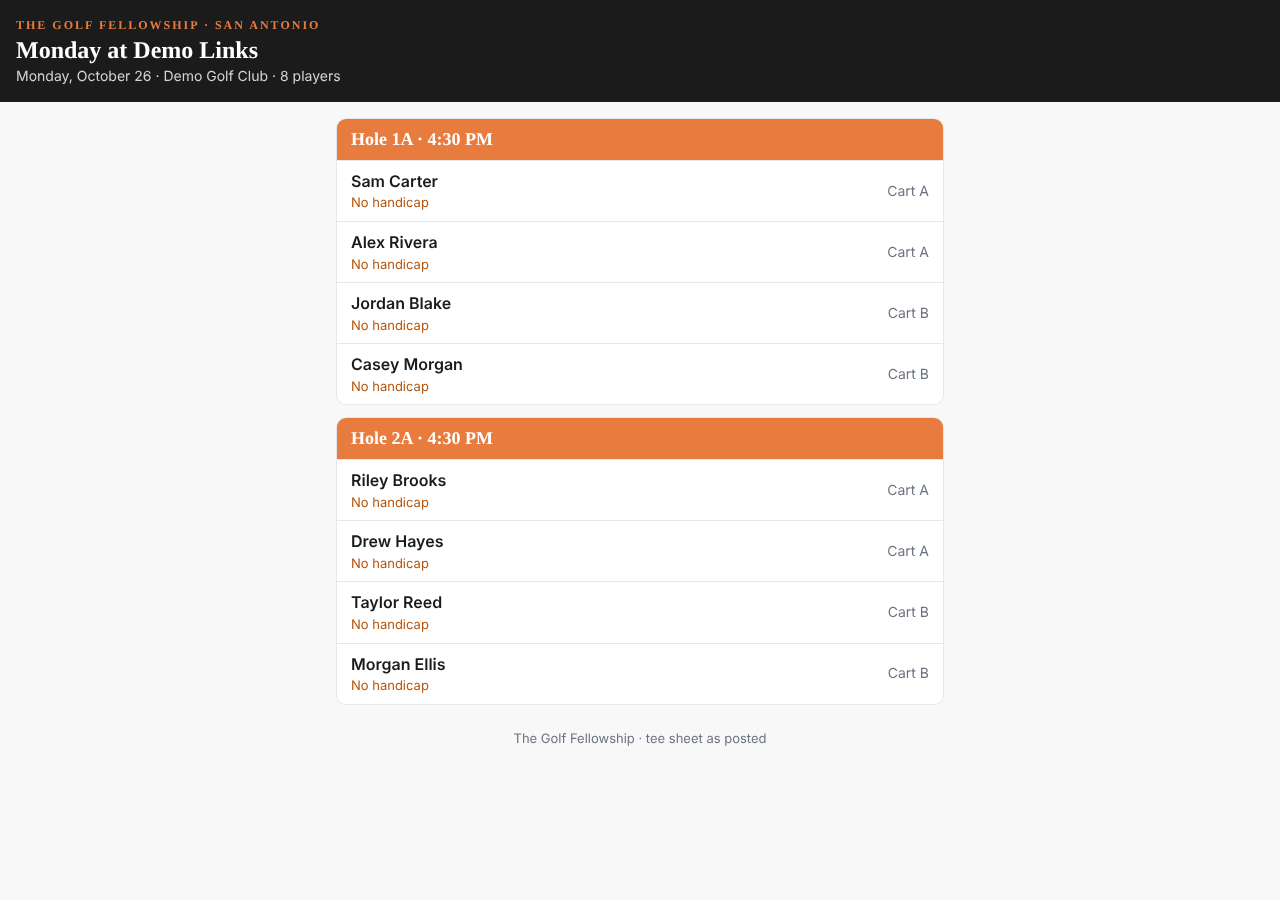
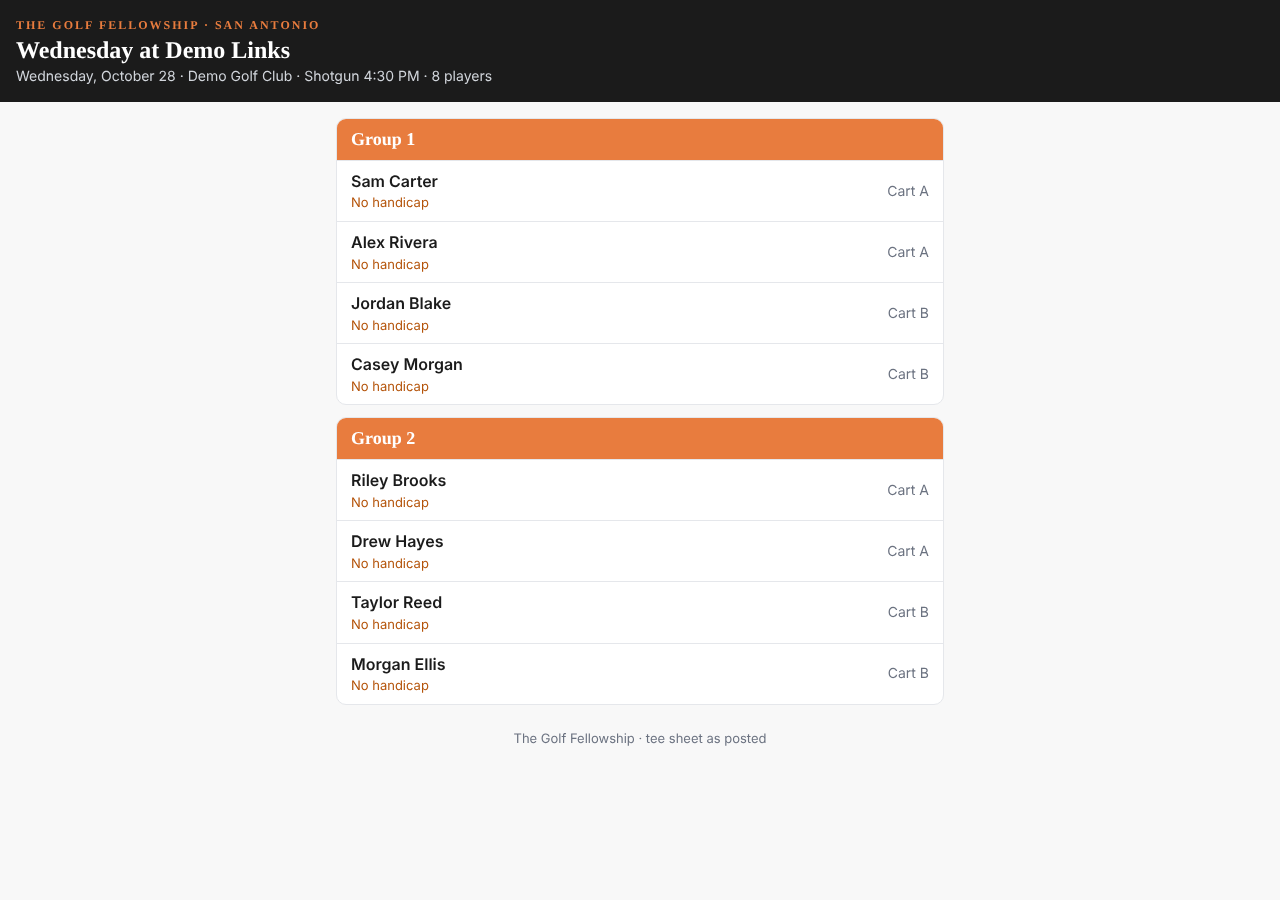
Tee-times email: no hole assignments for a shotgun, start time and format only
Kerry 10/28: For initial pairings emails we will not show hole assignments,
only the start time and start format (shotgun v tee times). The member tee
sheet the email links to hides the holes the same way until Event Info goes.

Claude-Session: https://claude.ai/code/session_01YPEzaxbvvGornzi8fKwYN3

diff --git a/transaction-tracker/email_parser/teetimes_email.py b/transaction-tracker/email_parser/teetimes_email.py
@@ -250,11 +250,45 @@ def _base_url() -> str:
         return ""
 
 
+def leg_is_shotgun(ev: dict, holes) -> bool:
+    """Does this leg start on a shotgun? The pack's own start labels say so
+    ("Shotgun 8:30 AM"); a 9/18 Combo's 18 leg has its own label."""
+    lab = ev.get("start_label_18") if (str(holes) == "18" and ev.get("start_label_18")) else ev.get("start_label")
+    return str(lab or "").strip().lower().startswith("shotgun")
+
+
+def public_group_starts(pack: dict) -> list:
+    """The start cell for each group of the pack, in pack order. A SHOTGUN
+    leg shows "Group N", never the hole (Kerry 10/28: "For initial pairings
+    emails we will not show hole assignments, only the start time and start
+    format (shotgun v tee times)"); the start time and the word shotgun are
+    in the header. A tee-time leg keeps its time, which IS the start. Groups
+    are numbered per leg, counting only groups with a player, and a Combo
+    with both legs present names the leg ("18 · Group 1")."""
+    ev = pack.get("event") or {}
+    groups = pack.get("groups") or []
+    legs = {str(g.get("holes")) for g in groups if g.get("holes")}
+    n: dict = {}
+    out = []
+    for g in groups:
+        h = str(g.get("holes") or "")
+        if not any((p.get("name") or "").strip() for p in g.get("players") or []):
+            out.append("")
+            continue
+        if leg_is_shotgun(ev, h):
+            n[h] = n.get(h, 0) + 1
+            out.append((f"{h} · " if len(legs) > 1 else "") + f"Group {n[h]}")
+        else:
+            out.append((g.get("start_line") or g.get("slot_label") or "").replace(" | ", " · "))
+    return out
+
+
 def tee_sheet_block(pack: dict, event_id: int) -> tuple[str, list]:
     """(html, problems). Any problem leaves the block empty, which holds
     every message that uses it."""
     ev = pack.get("event") or {}
-    groups = [g for g in pack.get("groups") or []
+    _starts = public_group_starts(pack)
+    groups = [dict(g, _public_start=_starts[i]) for i, g in enumerate(pack.get("groups") or [])
               if any((p.get("name") or "").strip() for p in g.get("players") or [])]
     why = []
     if not groups:
@@ -287,7 +321,7 @@ def tee_sheet_block(pack: dict, event_id: int) -> tuple[str, list]:
         for p in players:
             if id(p) not in seated:
                 lines.append(_e(p["name"].strip()))
-        start = (g.get("start_line") or g.get("slot_label") or "").replace(" | ", " · ")
+        start = g["_public_start"]
         rows.append(f'<tr><td style="padding:8px 10px;border-top:1px solid #E5E7EB;vertical-align:top;'
                     f'white-space:nowrap;"><b>{_e(start)}</b></td>'
                     f'<td style="padding:8px 10px;border-top:1px solid #E5E7EB;">{"<br>".join(lines)}</td></tr>')
@@ -509,6 +543,7 @@ def _open_message(pack: dict, open_list: dict, first: str, reg_url: str, stop_ur
            f'<table role="presentation" cellpadding="0" cellspacing="0" border="0"><tr>'
            f'{_button(reg_url, OPEN["button"], O, "#ffffff")}</tr></table></td></tr></table>')
     rows = []
+    _starts = public_group_starts(pack)
     for i, g in enumerate(pack.get("groups") or []):
         names = [_e(p["name"].strip()) for p in sorted(g.get("players") or [],
                                                          key=lambda x: x.get("cart_pos") or 0)
@@ -516,7 +551,7 @@ def _open_message(pack: dict, open_list: dict, first: str, reg_url: str, stop_ur
         if not names:
             continue
         names += [f'<span style="color:{O};font-weight:bold;">{_e(OPEN["open_seat"])}</span>'] * open_list.get(i, 0)
-        gstart = (g.get("start_line") or g.get("slot_label") or "").replace(" | ", " · ")
+        gstart = _starts[i]
         rows.append(f'<tr><td style="padding:8px 10px;border-top:1px solid #E5E7EB;vertical-align:top;'
                     f'white-space:nowrap;"><b>{_e(gstart)}</b></td>'
                     f'<td style="padding:8px 10px;border-top:1px solid #E5E7EB;">{"<br>".join(names)}</td></tr>')

diff --git a/transaction-tracker/email_parser/member_teesheet.py b/transaction-tracker/email_parser/member_teesheet.py
@@ -108,7 +108,19 @@ def build_teesheet(event_id: int, db_path=None) -> dict | None:
             blinds = blinds or {}
         finally:
             conn.close()
-    for g in pack.get("groups") or []:
+    # Holes stay off the page until the Event Info has gone (Kerry 10/28:
+    # "For initial pairings emails we will not show hole assignments, only
+    # the start time and start format"); the tee-times email links here.
+    # after_lock_state:<id> is written by the Event Info send.
+    hide = False
+    try:
+        from email_parser import after_lock as _al
+        hide = not _al._get(_al.STATE_KEY.format(int(event_id)), db_path)
+    except Exception:
+        hide = False
+    from email_parser.teetimes_email import public_group_starts
+    _pub = public_group_starts(pack) if hide else []
+    for _gi, g in enumerate(pack.get("groups") or []):
         players = []
         for p in sorted(g.get("players") or [], key=lambda x: x.get("cart_pos") or 0):
             if not (p.get("name") or "").strip():
@@ -134,7 +146,8 @@ def build_teesheet(event_id: int, db_path=None) -> dict | None:
             brows.append({"name": b["name"].strip(), "why": why,
                           "index": _fmt_index(idx) if idx is not None else ""})
         groups.append({"group_num": g.get("group_num"),
-                       "start": (g.get("start_line") or g.get("slot_label") or "").replace(" | ", " · "),
+                       "start": (_pub[_gi] if hide else
+                                 (g.get("start_line") or g.get("slot_label") or "").replace(" | ", " · ")),
                        "players": players, "blinds": brows})
     from email_parser.event_day_email import event_short_name, _weekday
     try:
@@ -184,7 +197,10 @@ def build_teesheet(event_id: int, db_path=None) -> dict | None:
             "day": _weekday(ev.get("event_date")), "date": date,
             "course": ev.get("course") or "",
             "chapter": "" if chap.upper() == "TGF" else chap,
-            "groups": groups, "player_count": sum(len(g["players"]) for g in groups)}
+            "groups": groups, "player_count": sum(len(g["players"]) for g in groups),
+            # While holes are hidden the start time + format stand in for them.
+            "start": (" / ".join(x for x in (ev.get("start_label"), ev.get("start_label_18")) if x)
+                      if hide and groups else "")}
 
 
 def render_teesheet(data: dict) -> str:
@@ -227,7 +243,7 @@ def render_teesheet(data: dict) -> str:
                          + "".join(rows) + "</section>")
         body = "".join(cards)
     title = f"{data['day']} at {data['title']}" if data["day"] else data["title"]
-    sub = " · ".join(x for x in (data["date"], data["course"],
+    sub = " · ".join(x for x in (data["date"], data["course"], data.get("start") or "",
                                      f"{data['player_count']} players" if data["player_count"] else
                                      (f"{len(data.get('registered') or [])} registered"
                                       if data.get("registered") else "")) if x)

diff --git a/transaction-tracker/test_teetimes_email.py b/transaction-tracker/test_teetimes_email.py
@@ -356,6 +356,34 @@ check("an approval on event morning sends nothing", "refused" in r and not SENT,
 _pa = open("email_parser/pairings_approval.py", encoding="utf-8").read()
 check("the approval path goes through the same _deliver", "from email_parser.teetimes_email import _deliver" in _pa)
 
+print("9. No hole assignments in the tee-times email for a shotgun (Kerry 10/28)")
+import re as _re
+def _pk(start_label, labels, start_label_18=None, holes="18"):
+    return {"event": {"course": "Kissing Tree Golf Club", "event_date": "2026-10-31", "start_label": start_label,
+                      "start_label_18": start_label_18, "start_clock": "8:30 AM", "start_type": "Shotgun"},
+            "holes_key": holes,
+            "groups": [{"group_num": i + 1, "holes": holes, "slot_label": lab,
+                        "start_line": (f"Hole {lab} | 8:30 AM" if start_label.startswith("Shotgun") else f"{lab} | Hole 1"),
+                        "players": [{"name": f"P{i}a", "cart_pos": 1}, {"name": f"P{i}b", "cart_pos": 2}],
+                        "carts": []} for i, lab in enumerate(labels)]}
+_sg = _pk("Shotgun 8:30 AM", ["18A", "17A", "17B"])
+_html, _why = tt.tee_sheet_block(_sg, 3305)
+check("shotgun: groups by number, no hole labels", not _why and "Group 1" in _html and "Group 3" in _html
+      and not _re.search(r"\b1[78][AB]\b", _html) and "Hole " not in _html, _html)
+check("shotgun: the header states the start time and the format", "Shotgun 8:30 AM" in _html, _html)
+_subj, _body, _w = tt._open_message(_sg, {0: 2}, "Ann", "https://reg.example.test", "https://stop.example.test",
+                                     "Kissing Tree", event_day="Saturday")
+check("open-spots email: no hole labels on a shotgun either", "Group 1" in _body
+      and not _re.search(r"\b1[78][AB]\b", _body) and "8:30 AM shotgun" in _subj, (_subj, _body[:400]))
+_tt = _pk("First tee 8:00 AM", ["8:00 AM", "8:10 AM"])
+_html2, _ = tt.tee_sheet_block(_tt, 3305)
+check("tee times keep their times (the time IS the start)", "8:10 AM" in _html2 and "Group 1" not in _html2, _html2)
+_cb = _pk("First tee 4:00 PM", ["4:00 PM"], start_label_18="Shotgun 8:30 AM", holes="9")
+_cb["groups"] += _pk("Shotgun 8:30 AM", ["1A"], holes="18")["groups"]
+_html3, _ = tt.tee_sheet_block(_cb, 3305)
+check("a 9/18 Combo: the shotgun leg hides holes, the tee-time leg keeps its time",
+      "18 · Group 1" in _html3 and "4:00 PM" in _html3 and not _re.search(r"\b1A\b", _html3), _html3)
+
 try:
     os.unlink(DB)
 except OSError:

diff --git a/transaction-tracker/test_event_day_email.py b/transaction-tracker/test_event_day_email.py
@@ -5,7 +5,7 @@ never twice per event + customer. Graph is mocked — nothing leaves.
 
 Run: python3 test_event_day_email.py
 """
-import os, sys, io, contextlib, logging, tempfile
+import re, os, sys, io, contextlib, logging, tempfile
 sys.path.insert(0, os.path.dirname(os.path.abspath(__file__)))
 DB = tempfile.mktemp(suffix=".db")
 os.environ["DATABASE_PATH"] = DB
@@ -183,11 +183,20 @@ check("…and the handicap chain in words",
 check("no strip without stroke indexes (never guessed)",
       ede.card_strip({"ph": "6", "si_by_hole": {}}, {"holes": [10]}, {}, None, None) == "")
 from email_parser import member_teesheet as mts
+from email_parser import after_lock as _al
+_pre_ei = mts.render_teesheet(mts.build_teesheet(EV, db_path=DB))
+check("before the Event Info, a shotgun's member tee sheet hides the holes (Kerry 10/28)",
+      "Group 1" in _pre_ei and "Hole 1A" not in _pre_ei and not re.search(r">\s*\d{1,2}[AB]\b", _pre_ei)
+      and "Shotgun 8:00 AM" in _pre_ei, _pre_ei[:600])
+_al._set(_al.STATE_KEY.format(int(EV)), {"seeded": True}, DB)
 td = mts.build_teesheet(EV, db_path=DB)
 page = mts.render_teesheet(td)
 check("the member tee sheet lists every group with its anchor and players",
       'id="g1"' in page and 'id="g2"' in page and "Ann Able" in page and "Gus Gray" in page
       and "Hole 1A \u00b7 8:00 AM" in page, page[:300])
+with db._connect(DB) as conn:  # back to "Event Info not sent" for the sections below
+    conn.execute("DELETE FROM app_settings WHERE key = ?", (_al.STATE_KEY.format(int(EV)),))
+    conn.commit()
 check("each seated player shows his TGF index or No handicap (Kerry 10/20)",
       all(("HCP " in r or "No handicap" in r) for r in page.split('<div class="p"')[1:]), page[:600])
 with db._connect(DB) as conn:

diff --git a/transaction-tracker/docs/claude/events.md b/transaction-tracker/docs/claude/events.md
@@ -138,6 +138,7 @@ Kerry: "Monday thru Thursday: 1 day before at 5:00p / Friday: 2 days before at 5
 - The override: `events.lock_override` (migration 0038), 'YYYY-MM-DD HH:MM' Central, set on Edit Event ("Lock (blank = standard)") by a manager or admin; blank goes back to the standard. `update_event` ignores a malformed value.
 - ONE reader, `database.event_lock_at(ev)`. It drives the 5:00 PM pairings run (now every 15 minutes, each event once per lock at its own lock, `pairings_auto_done:<event_id>`; an event with no override still needs its weekday in the dial), the RSVP deadline emails, the payment-reminder stop at lock (`payment_reminder.lock_at`) and seat-fill.
 - The manager's approve prompt follows it too (v2.596.0): `pairings_approval.prompt_check` prompts any event whose lock has passed, so a Saturday event's manager is prompted Wednesday after 5:00 PM. Course Connect (course contacts setting it) is a Platform item.
+- **No hole assignments in the tee-times email for a shotgun (Kerry 10/28):** "For initial pairings emails we will not show hole assignments, only the start time and start format (shotgun v tee times)." On a SHOTGUN leg every version of the tee-times email (player, open spots, course contact, manager) lists the groups as "Group 1", "Group 2"…, numbered per leg; the header already states the start time and format ("Shotgun 8:30 AM"), and the open-spots subject says "8:30 AM shotgun". A tee-time leg keeps its times (the time IS the start). A 9/18 Combo decides per leg (the 18 leg's own start label) and names the leg when both are present ("18 · Group 1"). One helper, `teetimes_email.public_group_starts(pack)` (with `leg_is_shotgun`), used by `tee_sheet_block` and `_open_message`; done in the structure, so the stamped templates and their hashes are unchanged. The public member tee sheet (`/member/teesheet/<id>`, which the email links to) hides the holes the same way until the Event Info has gone (`after_lock_state:<event_id>`, written by the Event Info send), with the start label under the title; after the Event Info it shows the holes as before. The Event Info, Course Files, Starter Sheet, cart signs, scorecards and the manager's approve page keep the holes. Guards `test_teetimes_email.py` §9, `test_event_day_email.py`.
 - **The tee-times email goes on the LOCK night (v2.608.0, Kerry 10/28):** "The 5:00p Friday shorter tee-times email makes zero sense. That would need to be moved to the night of the lock and pairings generation...same as Tuesday events." `teetimes_email.send_window_ok(event)` allows the send from `event_lock_at` to midnight that day (never on event day); `auto_check` picks the events whose lock is tonight; `pairings_approval.auto_send_check` auto-approves at 7:00 PM on the lock night for every event, morning events included. Tuesday 4:30 PM event: Monday from 5:00 PM (approval) or 7:00 PM, unchanged. Saturday 8:00 AM event: Wednesday from 5:00 PM / 7:00 PM (was Friday 5:00 PM). The Event Info times do not move (noon the day before for a morning event, 6:00 AM event day otherwise). Every "tomorrow" in the tee-times emails is filled at render time for the day it goes (`when_words`, `event_info_phrase(..., when)`, `pack_text`, `pack_key`, the open-spots subject and lead), so a Wednesday email for a Saturday event reads "Event Info comes at noon Friday", "print packs will arrive at noon Friday", "3 spots open at KT Saturday". The stamped templates and their hashes are unchanged. The manager's approve prompt and the approve page's plan name the real times too (`lock_evening_word`, `info_at`, `day_word`).
 - **Print pack with no course contact: the Course Files time (v2.608.0, Kerry 10/28):** "Print packs for weekend events should come day before just like if there is a course contact." `print_pack.print_packs_due` makes a pack due from noon on `course_files_noon.send_day` (the day before for a morning event, event day otherwise), and a changed sheet re-sends until one hour before the first tee; job `print_packs_day_of` runs 6:05-9:05 AM and 12:05-8:05 PM. Was 6:05 AM on event day.
 - **Who:** everyone the Events page shows as RSVP-only (`payment_reminder.rsvp_only_people`), minus known mail scanners (`invitations.known_scanner`) and anyone with no email.
